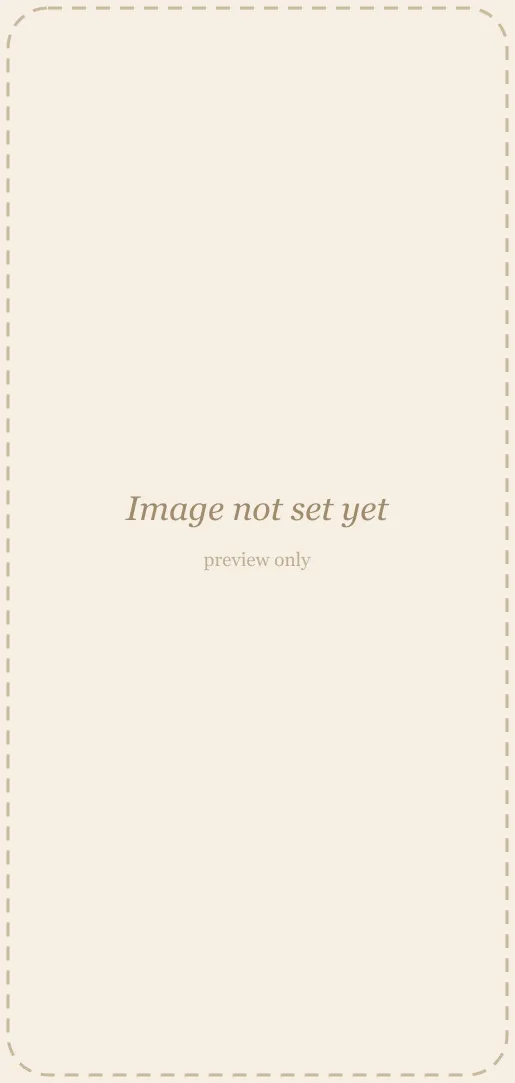
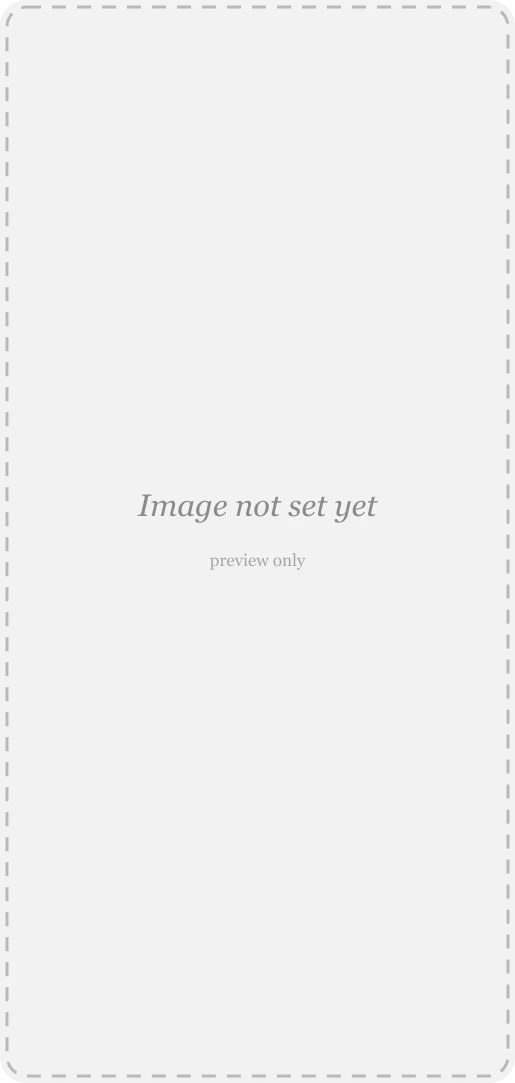
fix(theme): the placeholder goes neutral, and the ground sweep finds its predicate
THREE PREDICATES AND ONLY THE THIRD ASKED THE QUESTION. #365 swept all 86 assets for
ACCENT-proximity — a diagram drawn in cream-50 has almost no accent pixels, so it
could not appear. The first ground sweep then matched 66 of 84, because cream-50 is
near-white and ink-950 near-black and plain distance catches every light or dark UI
screenshot. The corrected predicate asks whether a pixel is closer to the token than
to a neutral of the same lightness — testing HUE, which is the only thing a theme
moves. That gives 19.

The population was complete all three times and the question was wrong twice, in
opposite directions. A complete population searched with a bad predicate reads as
thorough, because the denominator is right.

And 19 is not the leak count either: six are the Fosfor rasters replaced by inline
SVG in #365, still on disk as fail-closed fallbacks and no longer drawn; two are
boat-crest product screenshots. The real figure is four blog assets and one
placeholder.

THE ELEVATE REDACTIONS WERE NEVER A JUDGEMENT CALL. screen-a/b/c looked like the
hardest case — abstracted wireframes drawn in site colours because the real UI is
confidentiality-constrained — but they are referenced nowhere, never emitted, and a
studio edit removed their references when content-addressed uploads replaced them.
Dead files, deleted. Ask whether it renders before asking what it depicts.

THE PLACEHOLDER GOES NEUTRAL, for the favicon's reason. It was 98.3% within 12 of
[…]

diff --git a/lib/case-studies/adapter.ts b/lib/case-studies/adapter.ts
@@ -76,7 +76,18 @@ type AdaptCtx = {
 };
 
 /** The stand-in for an image the owner has not set yet. Only ever reachable in
- *  preview mode — the ssg path throws before it can be produced. */
+ *  preview mode — the ssg path throws before it can be produced.
+ *
+ *  ⚠ NEUTRAL SINCE #373, AND FOR THE FAVICON'S REASON RATHER THAN TIDINESS. It used to be drawn in
+ *  cream's ground — 98.3% of its pixels within 12 of `cream-200` — so on a violet or teal palette it
+ *  was a warm card in the middle of a themed canvas. The studio canvases DO carry `data-theme`, so
+ *  that was visible while authoring even though the placeholder never reaches a public page.
+ *
+ *  It could not simply be themed: a raster cannot read a token, and an SVG behind `<img src>` cannot
+ *  either — #365 measured that. Making it inline would mean the adapter emitting something other
+ *  than a `src`, which is a contract change for a preview-only affordance. NEUTRAL DISSOLVES IT: a
+ *  placeholder for an unset image has no business carrying the brand, and grey reads correctly on
+ *  every palette. 98.3% themed-ground pixels to 0.0%. */
 const MISSING_IMAGE_SRC = "/images/projects/placeholder-missing.webp";
 const MISSING_IMAGE_ALT = "Image not set yet";
 

diff --git a/docs/STATE.md b/docs/STATE.md
@@ -10813,6 +10813,69 @@ accent finds accent leaks; a ground leak needs a different question.
 SectionHeading on harbour, and this. **The surface is not yet demonstrated stable**, and the third
 render is why.
 
+## THE GROUND SWEEP — THREE PREDICATES, AND ONLY THE THIRD ASKED THE QUESTION (#373)
+
+**#365 asked too narrow a question.** Complete population of 86 assets, ACCENT predicate — a diagram
+drawn in `cream-50` has almost no accent pixels, so it could not appear.
+
+**⚠ AND THE FIRST GROUND SWEEP ASKED TOO BROAD A ONE: 66 OF 84 FILES.** `cream-50` is near-white and
+`ink-950` near-black, so plain distance matched **every light or dark UI screenshot**. The corrected
+predicate asks whether a pixel sits closer to the token **than to a neutral of the same lightness** —
+testing HUE, which is the only thing a theme moves. That gives **19**.
+
+**THE POPULATION WAS COMPLETE ALL THREE TIMES. THE QUESTION WAS WRONG TWICE, IN OPPOSITE
+DIRECTIONS** — and a complete population searched with a bad predicate **reads as thorough, because
+the denominator is right.**
+
+**AND 19 IS NOT THE LEAK COUNT EITHER.** Six are the Fosfor rasters replaced by inline SVG in #365 —
+still on disk as fail-closed fallbacks, no longer drawn. Two are boat-crest product screenshots of a
+dark app UI. **The real figure is four blog assets and one placeholder.**
+
+---
+
+## THE ELEVATE REDACTIONS WERE NEVER A JUDGEMENT CALL
+
+`screen-a/b/c` looked like the hardest case — abstracted wireframes drawn in cream and terracotta
+because Elevate's real UI is confidentiality-constrained, so they DEPICT a product while being
+COLOURED in site chrome. Both readings live.
+
+**⚠ THE QUESTION DISSOLVED IN ONE COMMAND.** They are referenced nowhere in content, never emitted in
+the build, and git history shows a studio edit REMOVED their references when content-addressed
+uploads replaced them. **Dead files. They render nowhere, so they leak nowhere.** Deleted.
+
+**ASK WHETHER IT RENDERS BEFORE ASKING WHAT IT DEPICTS** — `monogram-mark.svg` in #361 was the same
+shape, and both times the cheap check came second.
+
+---
+
+## THE PLACEHOLDER GOES NEUTRAL, FOR THE FAVICON'S REASON
+
+`placeholder-missing.webp` was **98.3% within 12 of `cream-200`**. It never reaches a public page —
+the SSG path throws and only preview produces it — but **the studio canvases carry `data-theme`**, so
+it was a warm card on a themed canvas while authoring.
+
+It could not simply be themed: a raster cannot read a token, and an SVG behind `<img src>` cannot
+either. Making it inline would mean the adapter emitting something other than a `src` — a contract
+change for a preview-only affordance. **Neutral dissolves it. 98.3% to 0.0%.**
+
+---
+
+## ⚠ THE TWO BLOG DIAGRAMS ARE NOT THE FOSFOR CASE, AND ARE LEFT ALONE
+
+The eight Fosfor illustrations were **pure geometry** — cylinders, bars, an hourglass, a clock. That
+is why tracing them as SVG paths was faithful, and why the shape-diff loop could verify it.
+
+**These two are text.** The flow diagram carries eleven box labels, two section labels, an inline
+annotation and two italic captions; the squads diagram carries a tracked-caps header, four card
+labels, a two-line legend and a caption. **Reproducing them as SVG `<text>` means typesetting prose
+that cannot reflow** — a caption would break at a fixed point regardless of container width, and any
+later copy edit would silently break the layout.
+
+**THE RIGHT FORM FOR A TEXT-HEAVY DIAGRAM IS JSX, NOT SVG** — real text, real reflow, tokens for
+colour, which is what `ProcessSection`'s diagram already does. **That is a redraw**, and it is the
+same line drawn for the blog heroes and the OG identity card: the owner has to want it before it can
+be scoped. Building them as SVG text would have produced something worse than what is there.
+
 ## WHAT'S NEXT
 
 **THE FIELD-CONTRACT ARC (#254–#257) IS CLOSED — FOUR PRs, ralph 1678 → 1707.** Recorded above the
